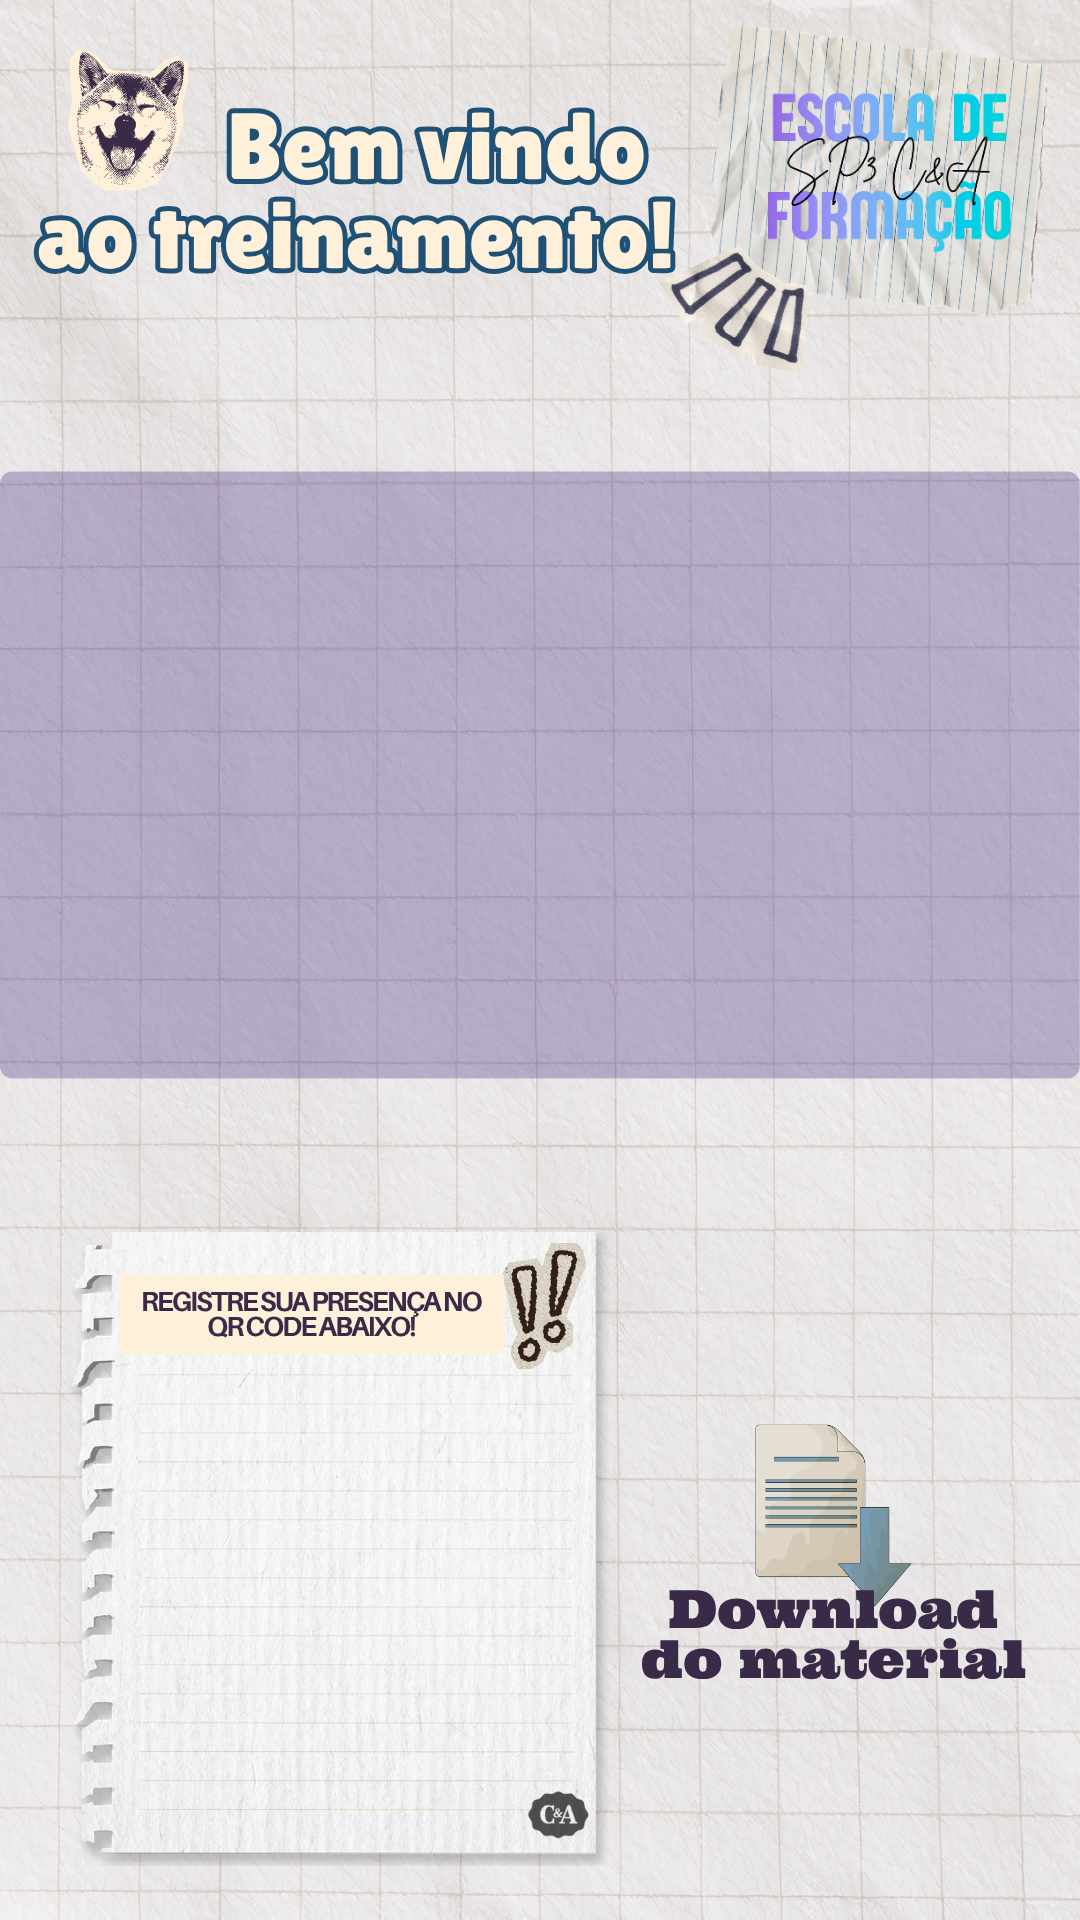
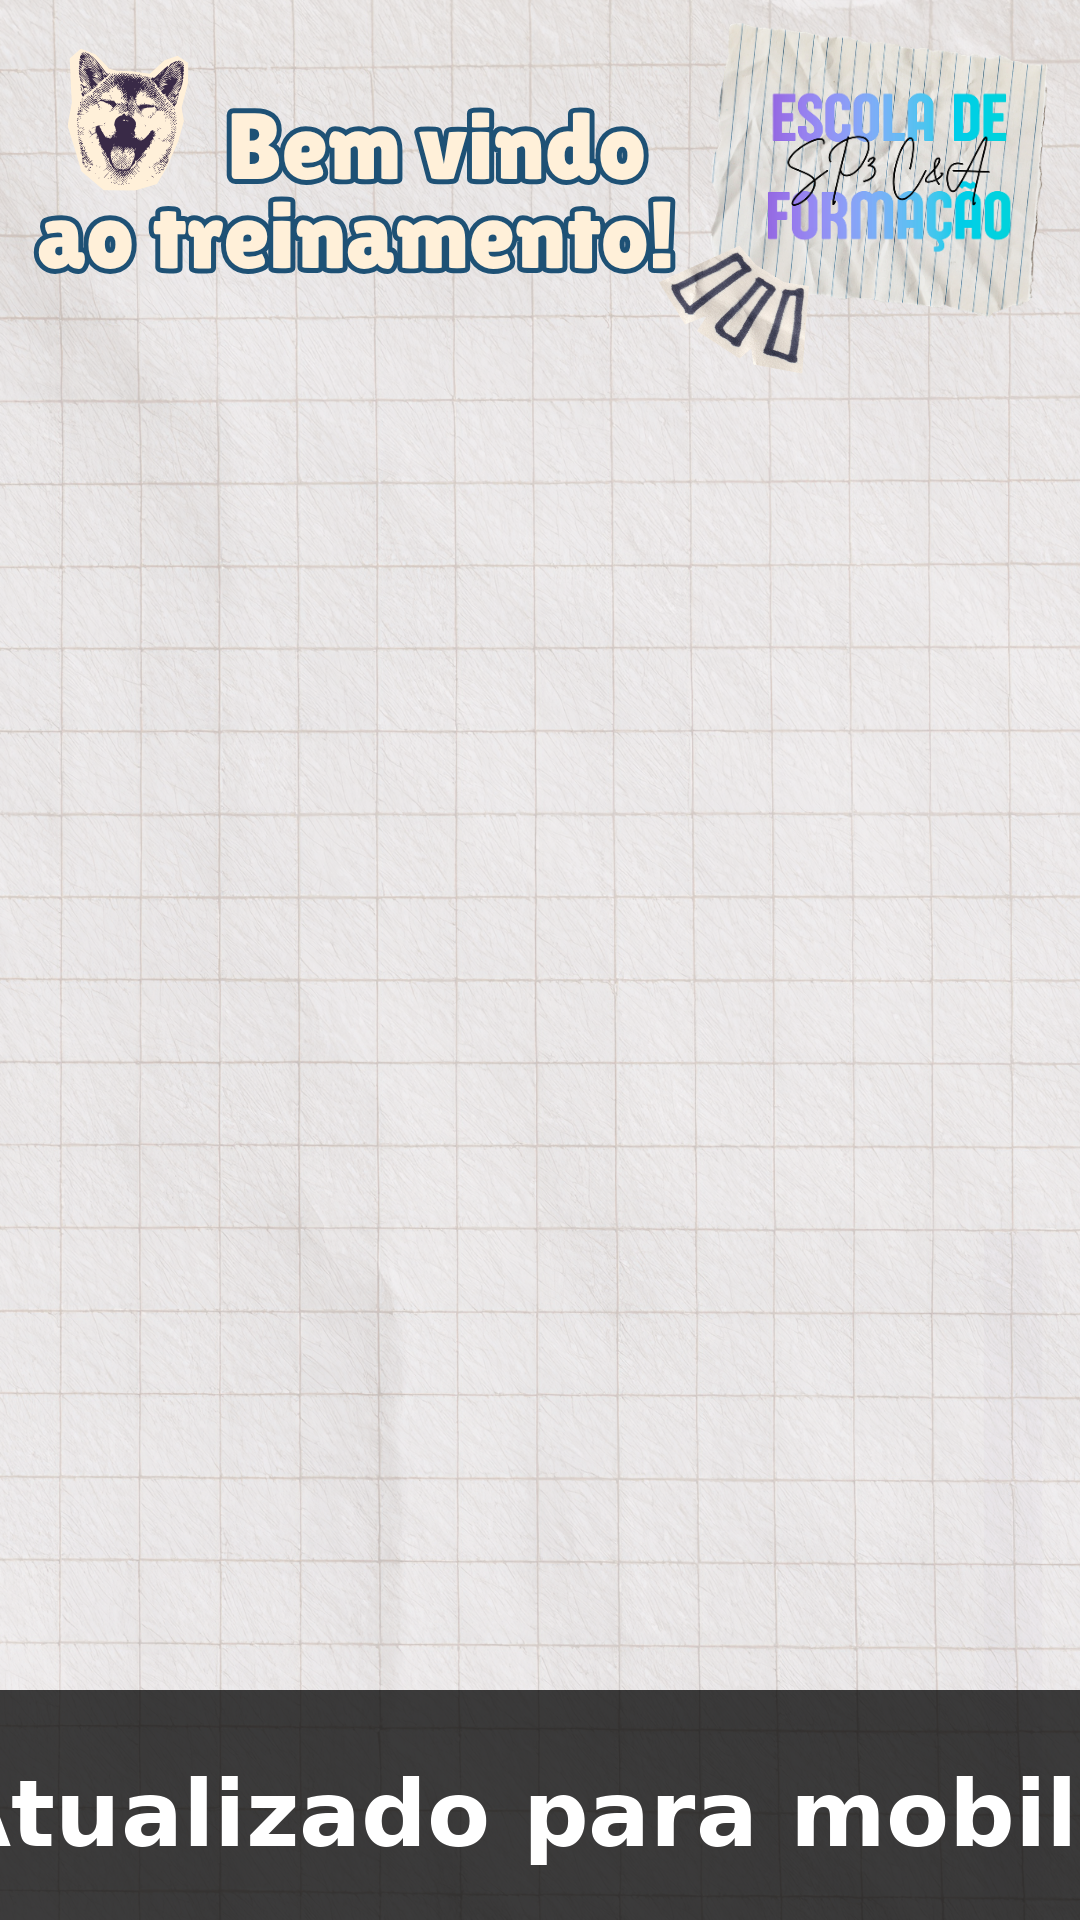
Remove QR delay, resize popup desktop/mobile, update bg-mobile.png

diff --git a/index.html b/index.html
@@ -92,13 +92,13 @@
       bottom: auto;
       z-index: 12;
       display: block;
-      width: 128px;
+      width: 256px;
       height: auto;
       min-width: 96px;
-      max-width: 160px;
-      opacity: 0;
-      pointer-events: none;
-      transition: opacity 0.4s ease;
+      max-width: 320px;
+      opacity: 1;
+      pointer-events: auto;
+      transition: opacity 0.2s ease;
       transform: none;
     }
 
@@ -138,7 +138,7 @@
         bottom: 20px;
         top: auto;
         transform: translateX(-50%);
-        width: 180px;
+        width: 166px;
         max-width: 90vw;
       }
     }
@@ -270,19 +270,10 @@
           : "Modo desktop • 1920 × 1080";
     }
 
-    function showQrPopup() {
-      const popup = document.getElementById("qr-popup");
-      if (!popup) return;
-      setTimeout(() => {
-        popup.classList.add("visible");
-      }, 30000);
-    }
-
     function init() {
       applyBackground(detectMode());
       applyVideo();
       resizeStage();
-      showQrPopup();
     }
 
     window.addEventListener("resize", resizeStage);